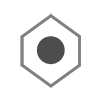
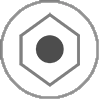
added spinning triangles and changed some images

Changed region(s): [[0.0, 0.0, 0.99, 0.99], [0.18, 0.12, 0.81, 0.9], [0.36, 0.33, 0.66, 0.66]]

diff --git a/01_Code/04_DemoGame/js/dot.js b/01_Code/04_DemoGame/js/dot.js
@@ -9,6 +9,8 @@ var Dot = function( type, rad, img )
     this.radius = rad;
     this.maxSpeed = 10;
     this.position = new Vector();
+    this.rotation = 0;
+    this.angularSpeed = 0;
     this.speed = new Vector();
     this.acceleration = new Vector();
     this.friction = 0.99;
@@ -19,7 +21,9 @@ Dot.prototype.render = function()
 {  
     ctx.save();
     ctx.globalAlpha = this.alpha;
-    ctx.drawImage(this.img, this.position.x - this.radius, this.position.y-this.radius, this.radius*2, this.radius*2);
+    ctx.translate(this.position.x, this.position.y);
+    ctx.rotate(this.rotation);
+    ctx.drawImage(this.img, -this.radius, -this.radius, this.radius*2, this.radius*2);
     ctx.restore();
 }
 
@@ -31,7 +35,7 @@ Dot.prototype.update = function(deltaTime)
     this.acceleration.set( new Vector() );
     this.position.add(this.speed.getMultScalar(deltaTime));
     this.collideWithBorders();
-    
+    this.rotation += this.angularSpeed * deltaTime;
 }
 
 //main movement functionality

diff --git a/01_Code/04_DemoGame/js/game.js b/01_Code/04_DemoGame/js/game.js
@@ -187,6 +187,7 @@ Game.prototype.update = function()
         var dot = new Dot(Dot.types.SCORE, this.scoreDotRad, this.scoreDotImg);
         dot.position.set(this.getOffScreenStartPos(this.scoreDotRad));
         dot.speed.set( new Vector( 25 + Math.random() * 25, 25 + Math.random() * 25 ) );
+        dot.angularSpeed = Math.PI + Math.random() * Math.PI;
         this.scoreDots.push( dot );
         this.lastScoreDot = now;
     }
@@ -194,8 +195,6 @@ Game.prototype.update = function()
     //updating score dots 
     for (var i in this.scoreDots)
     {
-        TweenLite.to(this.scoreDots[i], 1, { rotation: "360" } );
-        
         if (this.scoreDots[i].collected) continue;
         this.scoreDots[i].update(deltaTime);
         
